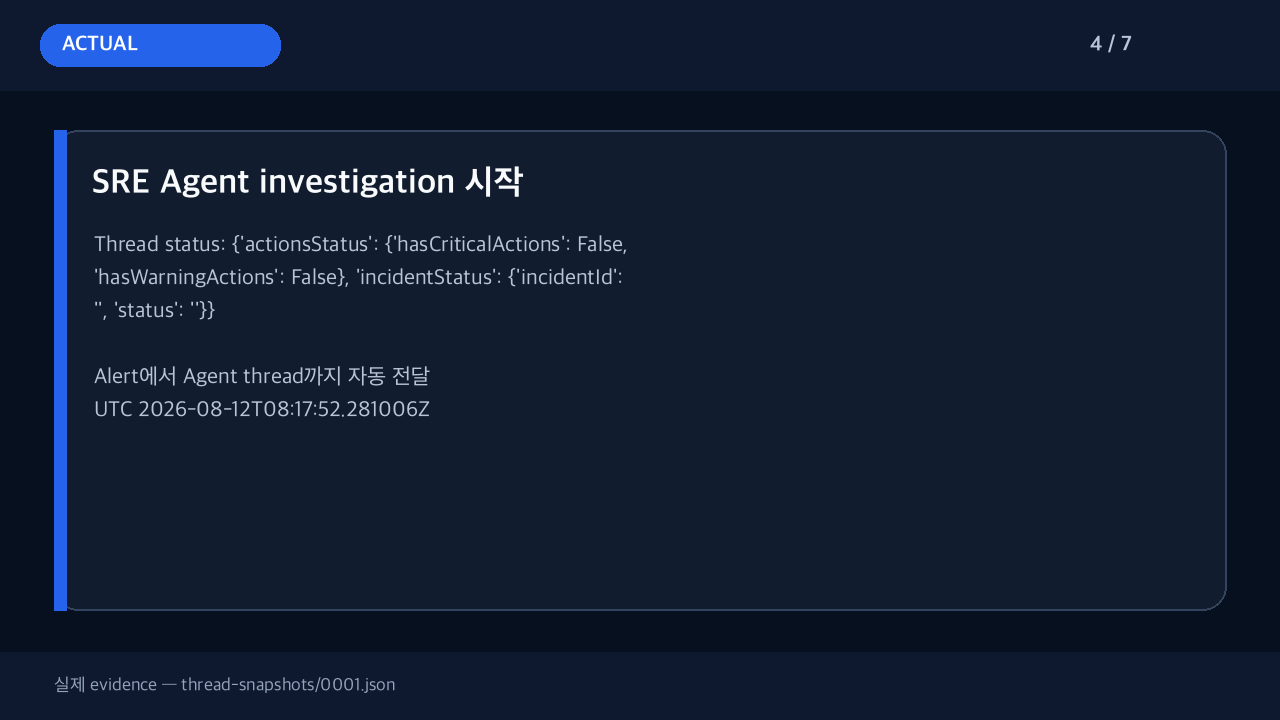
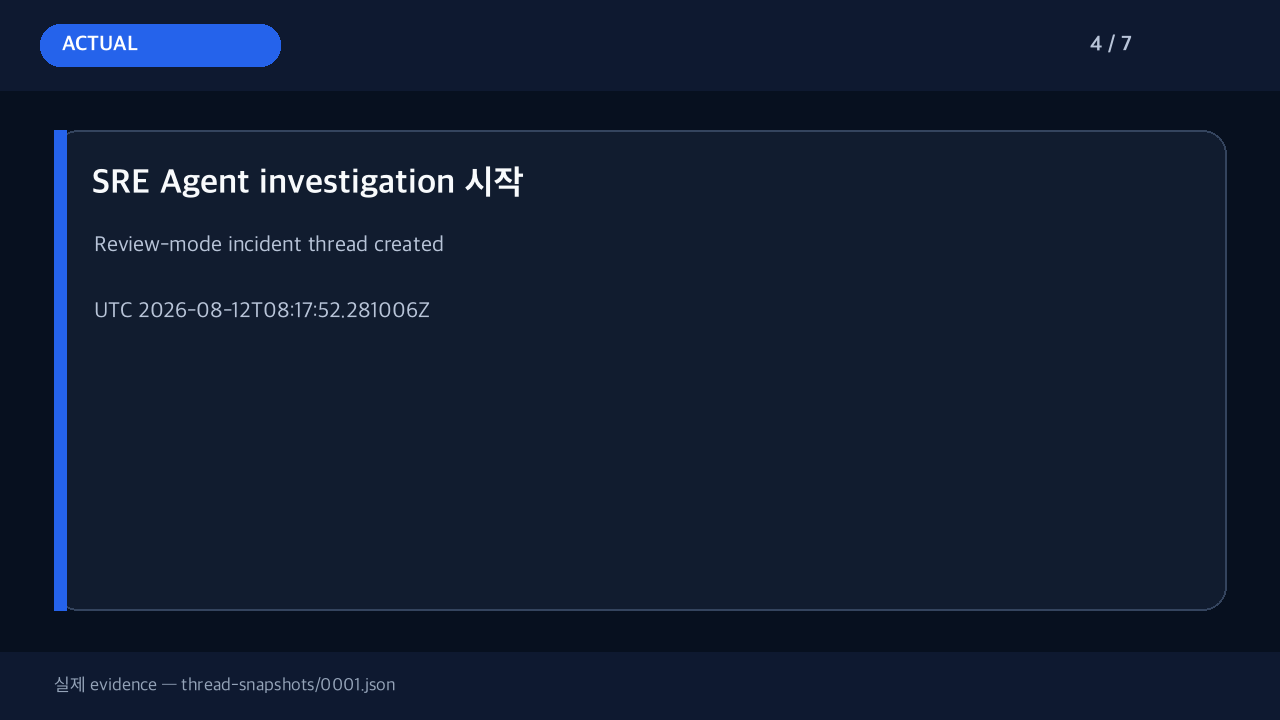
fix(monitor): sanitize public SRE storyboards

Changed region(s): [[0.0625, 0.3056, 0.5, 0.4583], [0.0625, 0.4889, 0.3438, 0.5806]]

diff --git a/monitor/sre-agent-event-lab/scripts/render_storyboard.py b/monitor/sre-agent-event-lab/scripts/render_storyboard.py
@@ -23,6 +23,9 @@ COLORS = {
     "ACTUAL": "#2563EB",
     "OPERATIONAL OUTPUT": "#16A34A",
 }
+AZURE_RESOURCE_ID_PATTERN = re.compile(
+    r"/subscriptions/[^\s,]+", re.IGNORECASE
+)
 SCENARIOS = {
     "s1": {
         "name": "주문 API HTTP 500",
@@ -79,10 +82,20 @@ def load_font(size: int, bold: bool = False):
 
 
 def clean_text(value: str) -> str:
-    value = sanitize(value)
+    value = public_text(value)
     value = re.sub(r"\[HTTP_TRIGGER_EXECUTION\].*", "", value, flags=re.DOTALL)
     value = value.replace("**", "").replace("`", "")
     return "\n".join(" ".join(line.split()) for line in value.splitlines())
+
+
+def public_text(value: str) -> str:
+    value = sanitize(value)
+
+    def replace_resource_id(match: re.Match) -> str:
+        resource_name = match.group(0).rstrip(".)]").split("/")[-1]
+        return f"[Azure resource: {resource_name}]"
+
+    return AZURE_RESOURCE_ID_PATTERN.sub(replace_resource_id, value)
 
 
 def wrap(value: str, width: int = 46, limit: int = 8) -> list[str]:
@@ -135,6 +148,30 @@ def fallback_event(
     }
 
 
+def find_event_or_missing(
+    timeline: list[dict[str, Any]],
+    state: str,
+    missing_state: str,
+    alert: dict[str, Any],
+    fallback_title: str,
+    fallback_summary: str,
+    keywords: tuple[str, ...] = (),
+    last: bool = False,
+) -> dict[str, Any]:
+    try:
+        return find_event(timeline, state, keywords, last)
+    except ValueError:
+        try:
+            return find_event(timeline, missing_state, last=True)
+        except ValueError:
+            return fallback_event(
+                alert,
+                missing_state,
+                fallback_title,
+                fallback_summary,
+            )
+
+
 def build_frames(
     scenario: str,
     timeline: list[dict[str, Any]],
@@ -145,35 +182,33 @@ def build_frames(
         raise ValueError(f"unknown scenario: {scenario}")
     config = SCENARIOS[scenario]
     alert = find_event(timeline, "alert-fired")
-    try:
-        thread = find_event(timeline, "thread-created")
-    except ValueError:
-        thread = fallback_event(
-            alert,
-            "thread-not-created",
-            "Agent thread가 생성되지 않음",
-            "Alert는 발생했지만 matching SRE Agent thread가 생성되지 않음",
-        )
-    try:
-        evidence = find_event(
-            timeline, "investigating", config["evidence_keywords"], last=True
-        )
-    except ValueError:
-        evidence = fallback_event(
-            alert,
-            "investigation-missing",
-            "조사 evidence가 수집되지 않음",
-            "Telemetry · change · code evidence가 수집되지 않음",
-        )
-    try:
-        conclusion = find_event(timeline, "conclusion", last=True)
-    except ValueError:
-        conclusion = fallback_event(
-            alert,
-            "conclusion-missing",
-            "결론이 수집되지 않음",
-            "Capture deadline까지 structured conclusion이 수집되지 않음",
-        )
+    thread = find_event_or_missing(
+        timeline,
+        "thread-created",
+        "thread-not-created",
+        alert,
+        "Agent thread가 생성되지 않음",
+        "Alert는 발생했지만 matching SRE Agent thread가 생성되지 않음",
+    )
+    evidence = find_event_or_missing(
+        timeline,
+        "investigating",
+        "investigation-missing",
+        alert,
+        "조사 evidence가 수집되지 않음",
+        "Telemetry · change · code evidence가 수집되지 않음",
+        keywords=config["evidence_keywords"],
+        last=True,
+    )
+    conclusion = find_event_or_missing(
+        timeline,
+        "conclusion",
+        "conclusion-missing",
+        alert,
+        "결론이 수집되지 않음",
+        "Capture deadline까지 structured conclusion이 수집되지 않음",
+        last=True,
+    )
     ticket = ticket_url or "GitHub Issue — 생성 단계에서 URL 연결"
     email = email_preview or "Outlook email draft — 미리보기 연결"
 
@@ -193,7 +228,7 @@ def build_frames(
         {
             "badge": "ACTUAL",
             "title": "Azure Monitor가 incident를 감지",
-            "body": sanitize(
+            "body": public_text(
                 f"{alert['title']}\n\n{alert['summary']}\nUTC {alert['timestamp']}"
             ),
             "footer": f"실제 evidence — {alert['source_file']}",
@@ -201,21 +236,26 @@ def build_frames(
         {
             "badge": "ACTUAL",
             "title": "SRE Agent investigation 시작",
-            "body": sanitize(
-                f"{thread['summary']}\n\nAlert에서 Agent thread까지 자동 전달\nUTC {thread['timestamp']}"
+            "body": public_text(
+                (
+                    "Review-mode incident thread created"
+                    if thread["state"] == "thread-created"
+                    else thread["summary"]
+                )
+                + f"\n\nUTC {thread['timestamp']}"
             ),
             "footer": f"실제 evidence — {thread['source_file']}",
         },
         {
             "badge": "ACTUAL",
             "title": "Telemetry · Change · Code evidence",
-            "body": sanitize(evidence["summary"]),
+            "body": public_text(evidence["summary"]),
             "footer": f"실제 Agent message — UTC {evidence['timestamp']}",
         },
         {
             "badge": "ACTUAL",
             "title": "Root cause와 조치 방안",
-            "body": sanitize(conclusion["summary"]),
+            "body": public_text(conclusion["summary"]),
             "footer": f"실제 Agent conclusion — UTC {conclusion['timestamp']}",
         },
         {

diff --git a/monitor/sre-agent-event-lab/scripts/tests/test_storyboard.py b/monitor/sre-agent-event-lab/scripts/tests/test_storyboard.py
@@ -125,6 +125,51 @@ def test_storyboard_renders_missing_agent_states(tmp_path):
     assert (tmp_path / "investigation-guide.gif").exists()
 
 
+def test_storyboard_preserves_explicit_missing_state_deadline(tmp_path):
+    storyboard = load_module()
+    incomplete = [
+        sample_timeline()[0],
+        {
+            "event_id": "thread-not-created",
+            "timestamp": "2026-08-12T08:27:56Z",
+            "state": "thread-not-created",
+            "title": "Thread not created",
+            "summary": "No matching thread before capture ended.",
+            "source": "capture",
+            "source_file": "thread-snapshots/0045.json",
+        },
+        {
+            "event_id": "investigation-missing",
+            "timestamp": "2026-08-12T08:27:56Z",
+            "state": "investigation-missing",
+            "title": "Investigation missing",
+            "summary": "No investigation evidence before capture ended.",
+            "source": "capture",
+            "source_file": "thread-snapshots/0045.json",
+        },
+        {
+            "event_id": "conclusion-missing",
+            "timestamp": "2026-08-12T08:27:56Z",
+            "state": "conclusion-missing",
+            "title": "Conclusion missing",
+            "summary": "No conclusion before capture ended.",
+            "source": "capture",
+            "source_file": "thread-snapshots/0045.json",
+        },
+    ]
+
+    storyboard.render_storyboard(
+        scenario="s1",
+        timeline=incomplete,
+        output_dir=tmp_path,
+    )
+
+    manifest = json.loads((tmp_path / "manifest.json").read_text())
+    serialized = json.dumps(manifest, ensure_ascii=False)
+    assert "08:27:56Z" in serialized
+    assert "thread-snapshots/0045.json" in serialized
+
+
 def test_storyboard_sanitizes_sensitive_timeline_content(tmp_path):
     storyboard = load_module()
     unsafe = sample_timeline()
@@ -145,3 +190,27 @@ def test_storyboard_sanitizes_sensitive_timeline_content(tmp_path):
     assert "user@contoso.com" not in manifest
     assert "verylongcallbacksigrandomvalue" not in manifest
     assert "[REDACTED]" in manifest
+
+
+def test_storyboard_hides_resource_ids_and_thread_internals(tmp_path):
+    storyboard = load_module()
+    timeline = sample_timeline()
+    timeline[0]["title"] = (
+        "/subscriptions/95933ae5-0201-4a21-a1fc-8051a7437982/"
+        "resourceGroups/rg/providers/Microsoft.Insights/"
+        "scheduledQueryRules/alert-sre-lab-s1-http500"
+    )
+    timeline[1]["summary"] = (
+        "Thread status: {'actionsStatus': {'hasCriticalActions': False}}"
+    )
+
+    storyboard.render_storyboard(
+        scenario="s1",
+        timeline=timeline,
+        output_dir=tmp_path,
+    )
+
+    manifest = (tmp_path / "manifest.json").read_text()
+    assert "95933ae5-0201-4a21-a1fc-8051a7437982" not in manifest
+    assert "Thread status:" not in manifest
+    assert "alert-sre-lab-s1-http500" in manifest
